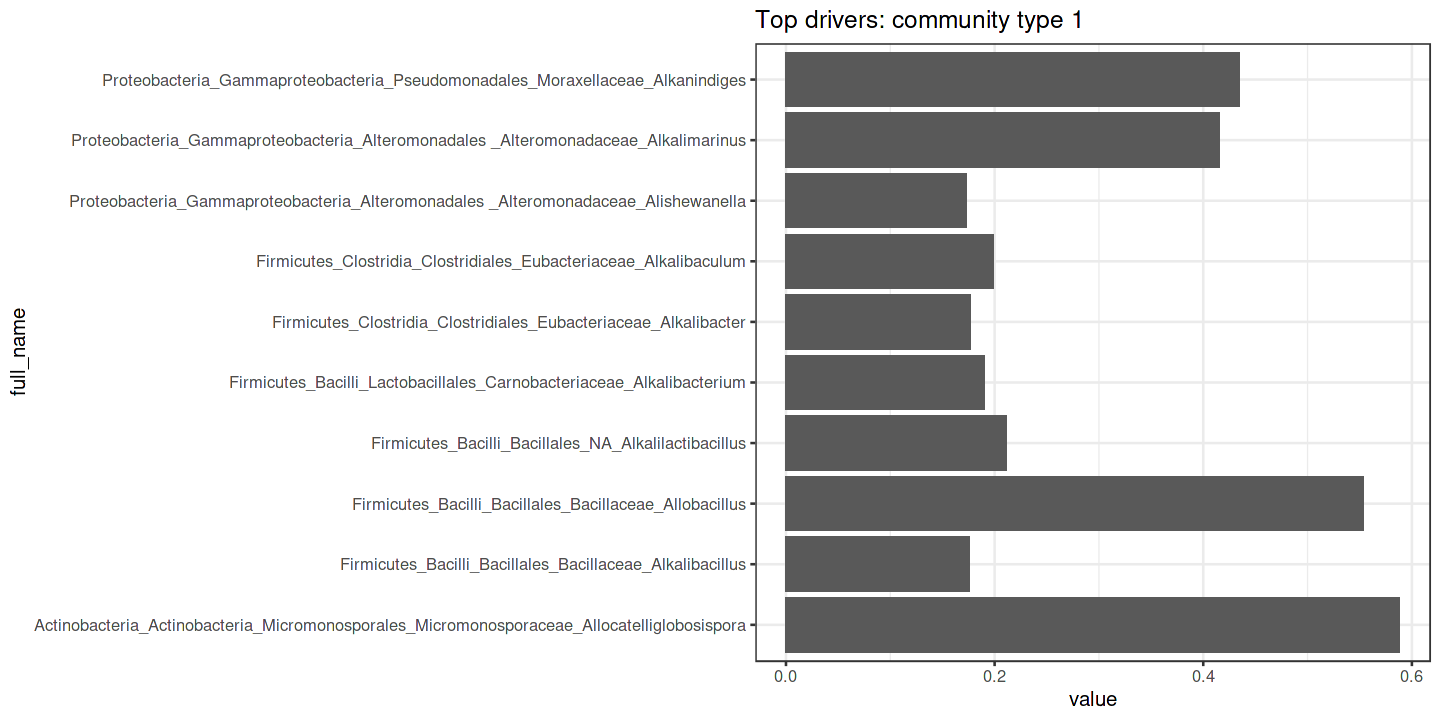
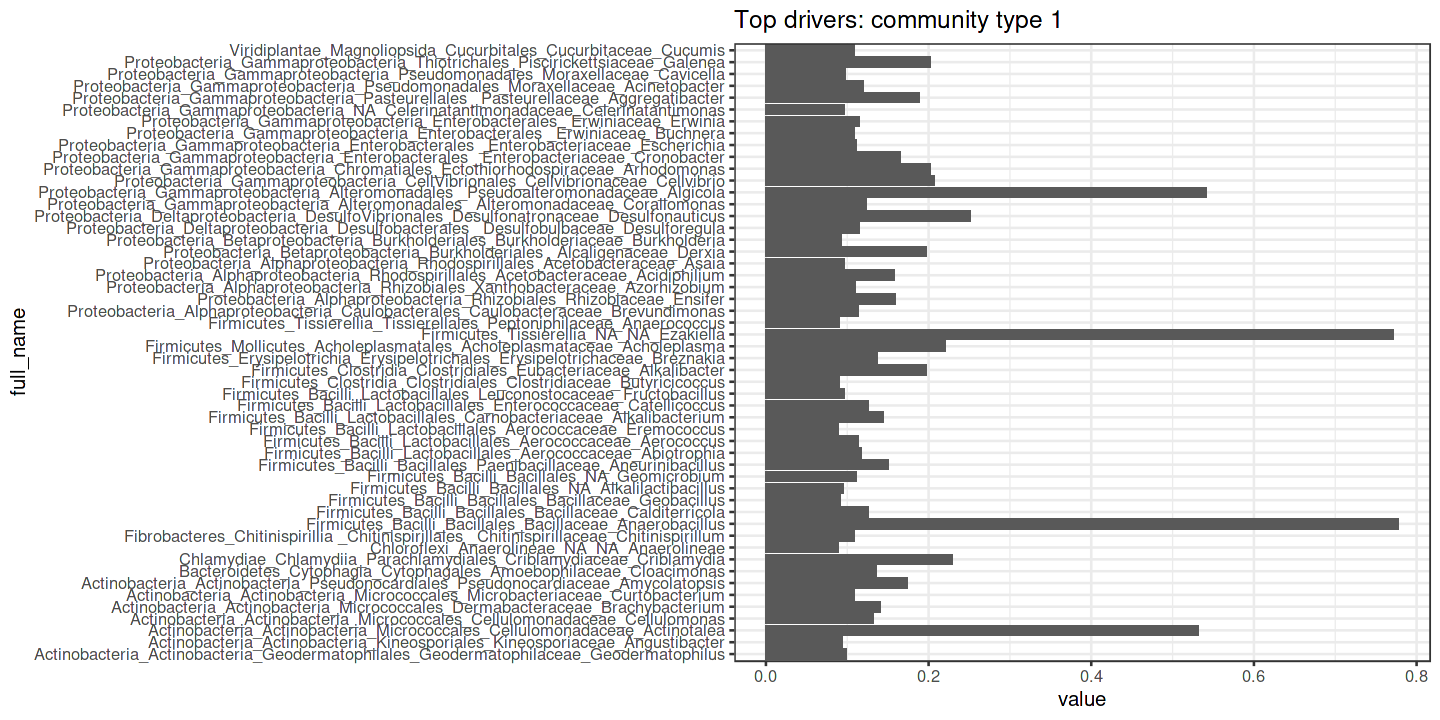
ok

diff --git a/DirichletMultinominalanalysis.md b/DirichletMultinominalanalysis.md
@@ -9,7 +9,7 @@ output: html_document
 
 
 
-Altogether 49 taxonomic groups are detected with 10% prevalence at 0.1% relative abundance. We used this set to determine the community types.
+Altogether 260 taxonomic groups are detected with 0% prevalence at 0.1% relative abundance. We used this set to determine the community types.
 
 
 
@@ -23,3 +23,16 @@ The (main) drivers per component are visualized.
 
 <img src="figure_DMM/DMM-1.png" title="plot of chunk DMM" alt="plot of chunk DMM" width="100%" /><img src="figure_DMM/DMM-2.png" title="plot of chunk DMM" alt="plot of chunk DMM" width="100%" /><img src="figure_DMM/DMM-3.png" title="plot of chunk DMM" alt="plot of chunk DMM" width="100%" />
 
+
+
+
+
+## Principal Coordinates Analysis (PCoA)
+
+Coloured by DMM community type.
+
+
+<img src="figure_DMM/pcoa-1.png" title="plot of chunk pcoa" alt="plot of chunk pcoa" width="33%" />
+
+* Ordination method: PCoA
+* Dissimilarity measure: bray
